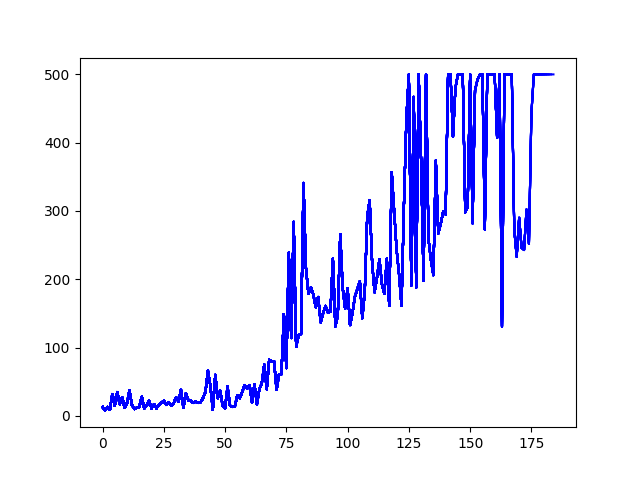
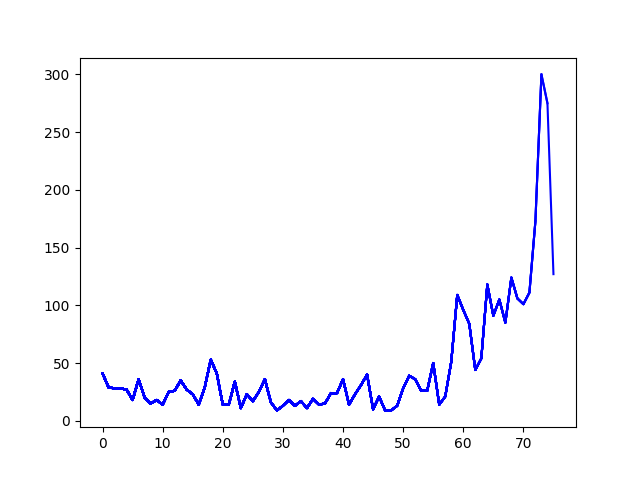
cartpole dqn tf2.0 업데이트

diff --git a/2-classic-control/1-cartpole/1-dqn/train.py b/2-classic-control/1-cartpole/1-dqn/train.py
@@ -1,0 +1,166 @@
+import sys
+import gym
+import pylab
+import random
+import numpy as np
+import tensorflow as tf
+from collections import deque
+
+EPISODES = 300
+
+
+# 상태가 입력, 큐함수가 출력인 인공신경망 생성
+class DQN(tf.keras.Model):
+    def __init__(self, action_size):
+        super(DQN, self).__init__()
+        self.fc1 = tf.keras.layers.Dense(24, activation='relu', 
+                                         kernel_initializer='he_uniform')
+        self.fc2 = tf.keras.layers.Dense(24, activation='relu', 
+                                         kernel_initializer='he_uniform')
+        self.fc_out = tf.keras.layers.Dense(action_size, 
+                                         kernel_initializer='he_uniform')
+
+    def call(self, x):
+        x = self.fc1(x)
+        x = self.fc2(x)
+        q = self.fc_out(x)
+        return q
+
+
+# 카트폴 예제에서의 DQN 에이전트
+class DQNAgent:
+    def __init__(self, state_size, action_size):
+        self.render = False
+
+        # 상태와 행동의 크기 정의
+        self.state_size = state_size
+        self.action_size = action_size
+
+        # DQN 하이퍼파라미터
+        self.discount_factor = 0.99
+        self.learning_rate = 0.001
+        self.epsilon = 1.0
+        self.epsilon_decay = 0.999
+        self.epsilon_min = 0.01
+        self.batch_size = 64
+        self.train_start = 1000
+
+        # 리플레이 메모리, 최대 크기 2000
+        self.memory = deque(maxlen=2000)
+
+        # 모델과 타깃 모델 생성
+        self.model = DQN(action_size)
+        self.target_model = DQN(action_size)
+        self.optimizer = tf.keras.optimizers.Adam(lr=self.learning_rate)
+
+        # 타깃 모델 초기화
+        self.update_target_model()
+
+    # 타깃 모델을 모델의 가중치로 업데이트
+    def update_target_model(self):
+        self.target_model.set_weights(self.model.get_weights())
+
+    # 입실론 탐욕 정책으로 행동 선택
+    def get_action(self, state):
+        if np.random.rand() <= self.epsilon:
+            return random.randrange(self.action_size)
+        else:
+            q_value = self.model(state)
+            return np.argmax(q_value[0])
+
+    # 샘플 <s, a, r, s'>을 리플레이 메모리에 저장
+    def append_sample(self, state, action, reward, next_state, done):
+        self.memory.append((state, action, reward, next_state, done))
+
+    # 리플레이 메모리에서 무작위로 추출한 배치로 모델 학습
+    def train_model(self):
+        if self.epsilon > self.epsilon_min:
+            self.epsilon *= self.epsilon_decay
+
+        # 메모리에서 배치 크기만큼 무작위로 샘플 추출
+        mini_batch = random.sample(self.memory, self.batch_size)
+
+        states = np.array([sample[0][0] for sample in mini_batch])
+        actions = np.array([sample[1] for sample in mini_batch])
+        rewards = np.array([sample[2] for sample in mini_batch])
+        next_states = np.array([sample[3][0] for sample in mini_batch])
+        dones = np.array([sample[4] for sample in mini_batch])
+
+        # 학습 파라메터
+        model_params = self.model.trainable_variables
+        with tf.GradientTape() as tape:
+            tape.watch(model_params)
+
+            # 현재 상태에 대한 모델의 큐함수
+            predicts = self.model(states)
+            one_hot_action = tf.one_hot(actions, self.action_size)
+            predicts = tf.reduce_sum(one_hot_action * predicts, axis=1)
+
+            # 다음 상태에 대한 타깃 모델의 큐함수
+            target_vals = self.target_model(next_states)
+
+            # 벨만 최적 방정식을 이용한 업데이트 타깃
+            targets = rewards + (1 - dones) * self.discount_factor * (np.amax(target_vals, axis=-1))
+            loss = tf.reduce_mean(tf.square(targets - predicts))
+        
+        # 오류함수를 줄이는 방향으로 모델 업데이트
+        grads = tape.gradient(loss, model_params)
+        self.optimizer.apply_gradients(zip(grads, model_params))
+
+
+if __name__ == "__main__":
+    # CartPole-v1 환경, 최대 타임스텝 수가 500
+    env = gym.make('CartPole-v1')
+    state_size = env.observation_space.shape[0]
+    action_size = env.action_space.n
+
+    # DQN 에이전트 생성
+    agent = DQNAgent(state_size, action_size)
+
+    scores, episodes = [], []
+
+    for e in range(EPISODES):
+        done = False
+        score = 0
+        # env 초기화
+        state = env.reset()
+        state = np.reshape(state, [1, state_size])
+
+        while not done:
+            if agent.render:
+                env.render()
+
+            # 현재 상태로 행동을 선택
+            action = agent.get_action(state)
+            # 선택한 행동으로 환경에서 한 타임스텝 진행
+            next_state, reward, done, info = env.step(action)
+            next_state = np.reshape(next_state, [1, state_size])
+            # 에피소드가 중간에 끝나면 -100 보상
+            reward = reward if not done or score == 499 else -100
+
+            # 리플레이 메모리에 샘플 <s, a, r, s'> 저장
+            agent.append_sample(state, action, reward, next_state, done)
+            # 매 타임스텝마다 학습
+            if len(agent.memory) >= agent.train_start:
+                agent.train_model()
+
+            score += reward
+            state = next_state
+
+            if done:
+                # 각 에피소드마다 타깃 모델을 모델의 가중치로 업데이트
+                agent.update_target_model()
+
+                score = score if score == 500 else score + 100
+                # 에피소드마다 학습 결과 출력
+                scores.append(score)
+                episodes.append(e)
+                pylab.plot(episodes, scores, 'b')
+                pylab.savefig("./save_graph/cartpole_dqn.png")
+                print("episode: {:3d} | score: {:3d} | memory length: {:4d} | epsilon: {:.4f}".format(
+                      e, int(score), len(agent.memory), agent.epsilon))
+
+                # 이전 10개 에피소드의 점수 평균이 490보다 크면 학습 중단
+                if np.mean(scores[-min(10, len(scores)):]) > 490:
+                    agent.model.save_weights("./save_model/cartpole_dqn", save_format='tf')
+                    sys.exit()

diff --git a/2-classic-control/1-cartpole/1-dqn/test.py b/2-classic-control/1-cartpole/1-dqn/test.py
@@ -1,0 +1,80 @@
+import sys
+import gym
+import pylab
+import random
+import numpy as np
+import tensorflow as tf
+from collections import deque
+
+EPISODES = 10
+
+
+# 상태가 입력, 큐함수가 출력인 인공신경망 생성
+class DQN(tf.keras.Model):
+    def __init__(self, action_size):
+        super(DQN, self).__init__()
+        self.fc1 = tf.keras.layers.Dense(24, activation='relu', 
+                                         kernel_initializer='he_uniform')
+        self.fc2 = tf.keras.layers.Dense(24, activation='relu', 
+                                         kernel_initializer='he_uniform')
+        self.fc_out = tf.keras.layers.Dense(action_size, 
+                                         kernel_initializer='he_uniform')
+
+    def call(self, x):
+        x = self.fc1(x)
+        x = self.fc2(x)
+        q = self.fc_out(x)
+        return q
+
+
+# 카트폴 예제에서의 DQN 에이전트
+class DQNAgent:
+    def __init__(self, state_size, action_size):
+        # 상태와 행동의 크기 정의
+        self.state_size = state_size
+        self.action_size = action_size
+
+        # 모델과 타깃 모델 생성
+        self.model = DQN(action_size)
+        self.model.load_weights("./save_model/cartpole_dqn")
+
+    # 입실론 탐욕 정책으로 행동 선택
+    def get_action(self, state):
+        q_value = self.model(state)
+        return np.argmax(q_value[0])
+
+
+if __name__ == "__main__":
+    # CartPole-v1 환경, 최대 타임스텝 수가 500
+    env = gym.make('CartPole-v1')
+    state_size = env.observation_space.shape[0]
+    action_size = env.action_space.n
+
+    # DQN 에이전트 생성
+    agent = DQNAgent(state_size, action_size)
+
+    for e in range(EPISODES):
+        done = False
+        score = 0
+        # env 초기화
+        state = env.reset()
+        state = np.reshape(state, [1, state_size])
+
+        while not done:
+            env.render()
+
+            # 현재 상태로 행동을 선택
+            action = agent.get_action(state)
+            # 선택한 행동으로 환경에서 한 타임스텝 진행
+            next_state, reward, done, info = env.step(action)
+            next_state = np.reshape(next_state, [1, state_size])
+            # 에피소드가 중간에 끝나면 -100 보상
+            reward = reward if not done or score == 499 else -100
+
+            score += reward
+            state = next_state
+
+            if done:
+                score = score if score == 500 else score + 100
+                # 에피소드마다 학습 결과 출력
+                print("episode: {:3d} | score: {:.3f} ".format(e, score))
